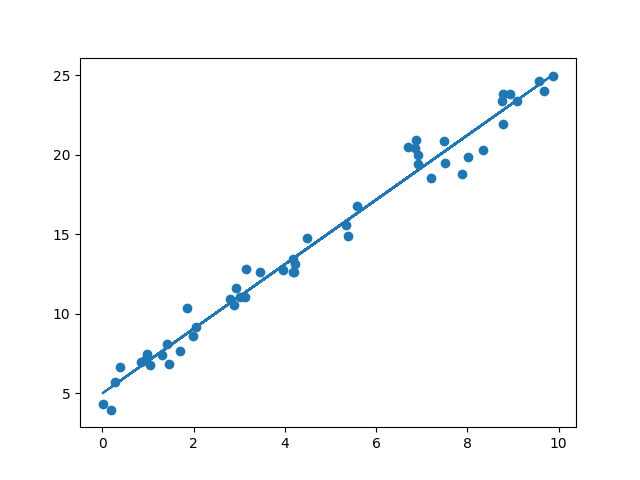
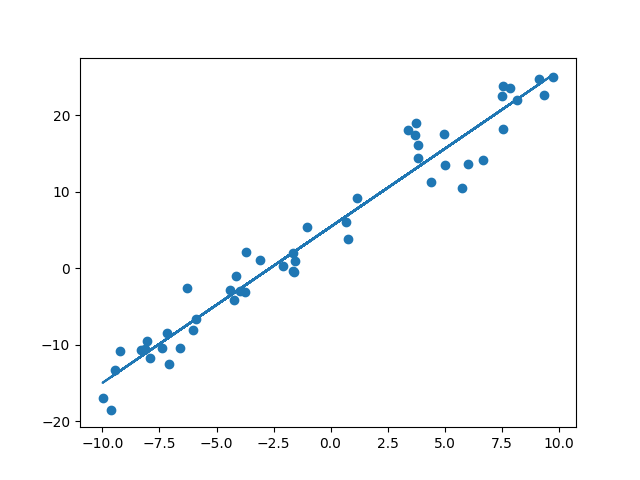
fix lin_fun_gen

diff --git a/fun_gen.py b/fun_gen.py
@@ -3,10 +3,10 @@ import numpy as np
 from matplotlib import pyplot as plt
 
 
-def lin_fun_gen(n_dots: int, x_scale: int, k: int, y0: int):
+def lin_fun_gen(n_dots: int, x_scale: tuple, k: int, y0: int, std: int):
     rng = np.random.RandomState(1)
-    x = x_scale * rng.rand(n_dots)
-    y = k * x + y0 + rng.randn(n_dots)
+    x = x_scale[0] +(x_scale[1]-x_scale[0]) * rng.rand(n_dots)
+    y = k * x + y0 + std*rng.randn(n_dots)
     return x, y
 
 
@@ -32,5 +32,5 @@ def draw(x, y, name):
 
 
 if __name__ == '__main__':
-    x, y = lin_fun_gen(50, 10, 2, 5)
+    x, y = lin_fun_gen(n_dots=50, x_scale=(-10, 10), k=2, y0=5, std=3)
     draw(x, y, 'first')
